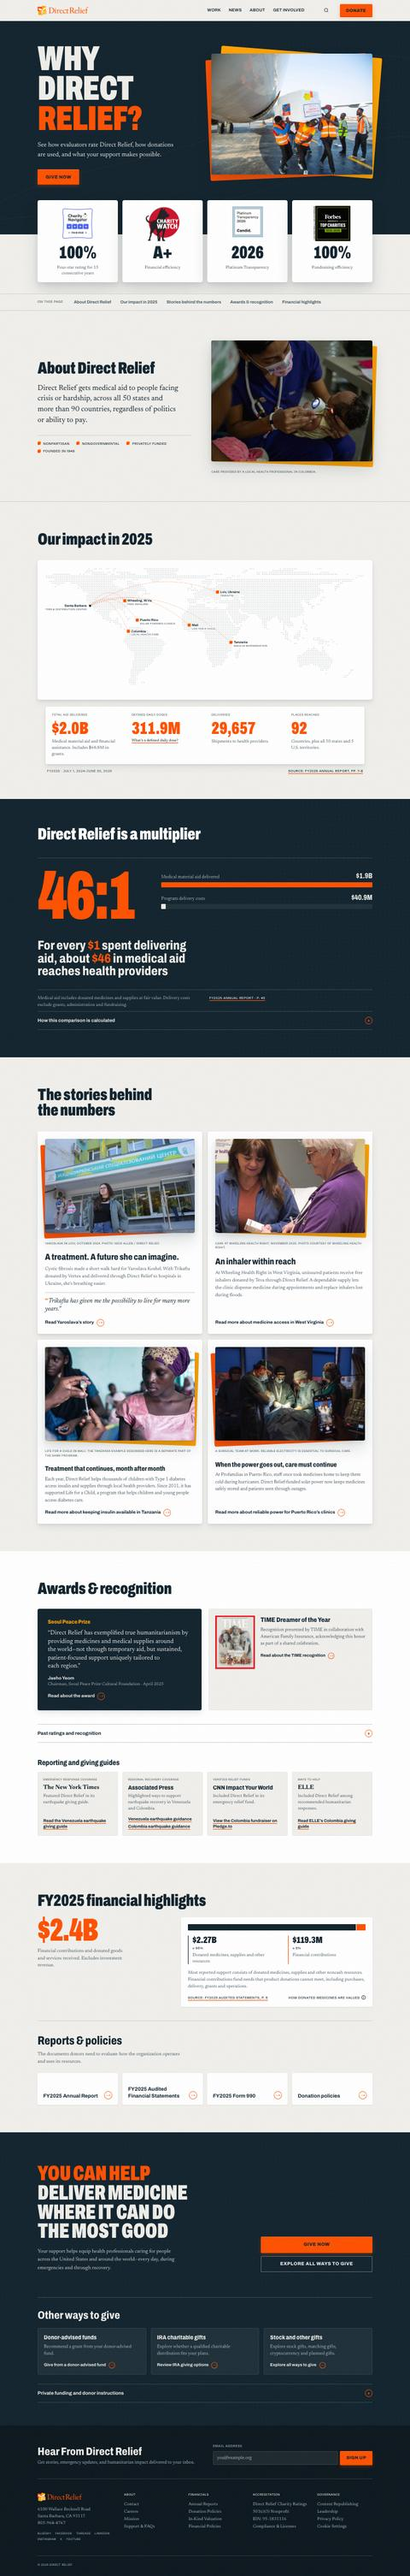
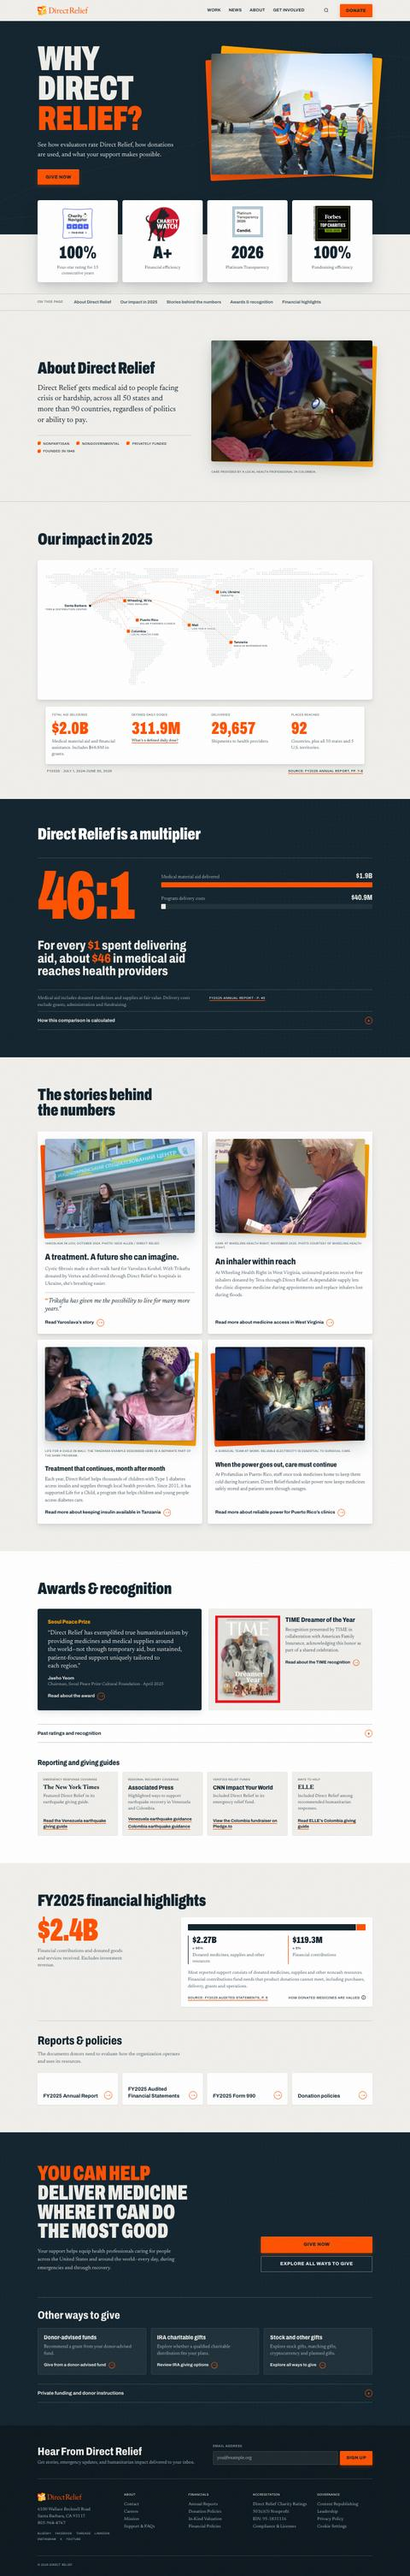
v6: enlarge the TIME cover to fill its card, from the full-res Figma source

Changed region(s): [[0.5, 0.6244, 0.875, 0.6868]]

diff --git a/v6/index.html b/v6/index.html
@@ -371,11 +371,11 @@ p{margin:0}
 @container site (max-width:600px){.honor.lead-h{padding:24px}}
 .honor-side{display:flex;flex-direction:column;gap:27px}
 .honor.time{flex-direction:row;align-items:flex-start;gap:19px}
-.honor.time img{flex:none;width:140px;height:auto}
+.honor.time img{flex:none;width:clamp(150px,43%,228px);height:auto;border-radius:2px;box-shadow:var(--e1)}
 .honor.time>div{display:flex;flex-direction:column;gap:10px;padding-top:2px}
 .honor.time .arrow-link{margin-top:6px}
 .honor-side>.honor{flex:1}
-@container site (max-width:600px){.honor.time img{width:96px}.honor.time{gap:16px;padding:18px}}
+@container site (max-width:600px){.honor.time img{width:112px}.honor.time{gap:16px;padding:18px}}
 .honor .label{color:var(--orange-text)}
 .archive{margin-top:48px;border-top:1px solid var(--rule)}
 .arch-h{display:flex;justify-content:space-between;align-items:baseline;flex-wrap:wrap;gap:6px 20px;padding-top:8px;border-top:1px solid var(--rule)}
@@ -712,7 +712,7 @@ body.notes .pin{display:block}
         </figure>
         <div class="honor-side">
           <div class="honor time">
-            <img src="img/time-dreamer-cover.png" alt="TIME magazine cover: Dreamer of the Year" width="140" height="188" loading="lazy">
+            <img src="img/time-dreamer-cover.jpg" alt="TIME magazine cover: Dreamer of the Year" width="240" height="321" loading="lazy">
             <div><h3>TIME Dreamer of the Year</h3><p>Recognition presented by TIME in collaboration with American Family Insurance, acknowledging this honor as part of a shared celebration.</p><a class="arrow-link sm" href="https://www.directrelief.org/2025/12/direct-relief-named-time-2025-dreamer-of-the-year/">Read about the TIME recognition <span class="c" aria-hidden="true">→</span></a></div>
           </div>
         </div>
